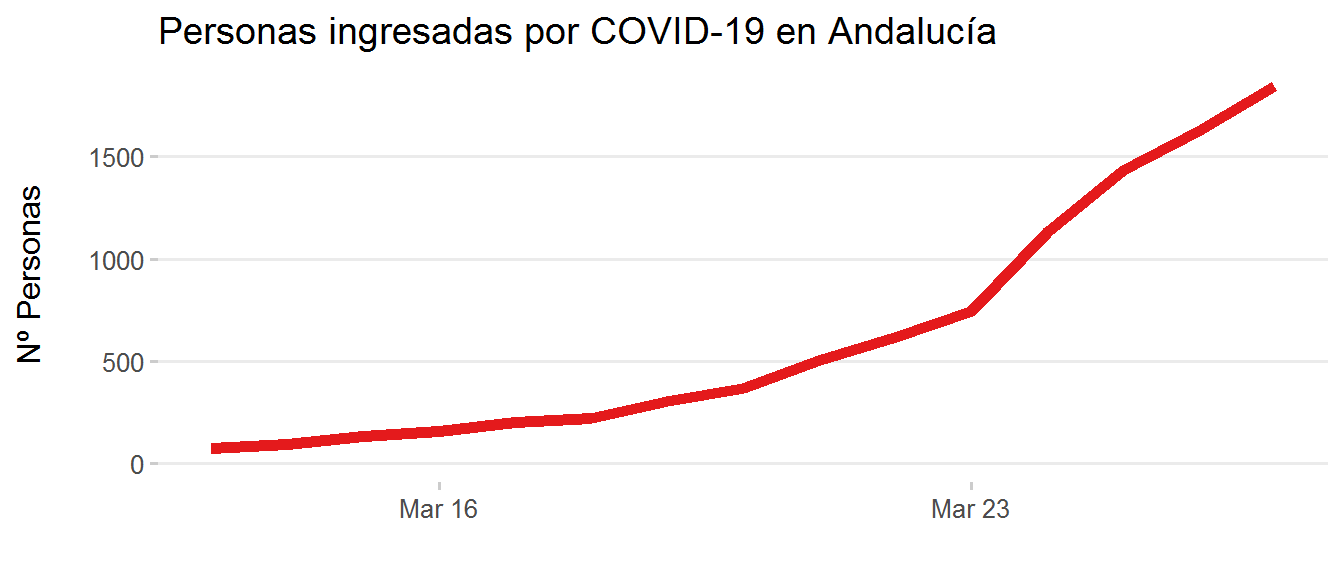
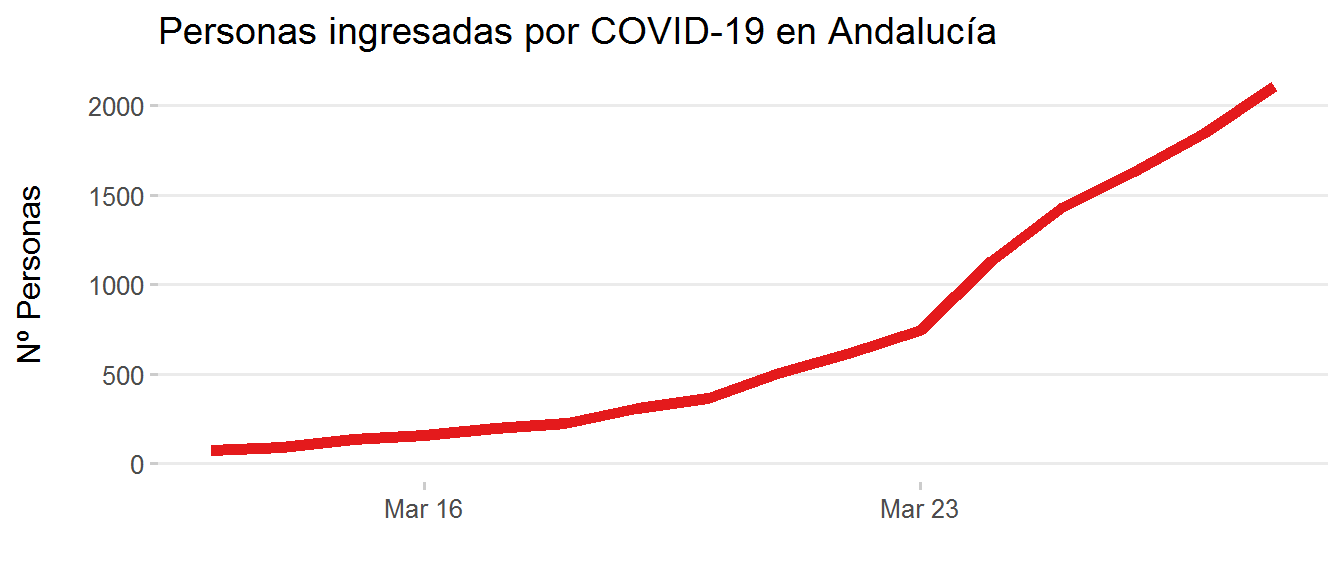
update 28 Marzo

diff --git a/evolucion-coronavirus-andalucia.html b/evolucion-coronavirus-andalucia.html
@@ -192,12 +192,15 @@ summary {
   gtag('config', 'UA-46538450-3');
 </script>
 <p><br></p>
-<p>Aquí se visualiza la evolución de la enfermedad del coronavirus (COVID-19) en Andalucía, según los <a href="https://www.juntadeandalucia.es/organismos/saludyfamilias/areas/salud-vida/paginas/Nuevo_Coronavirus.html">datos oficiales ofrecidos por la Consejería de Salud y Familias</a>. A diferencia de otras visualizaciones más extendidas, que representan datos acumulados en el tiempo, aquí se enfatizan las <strong>variaciones diarias absolutas (no acumuladas)</strong> en número de casos detectados, personas ingresadas y fallecimientos.</p>
+<p>Aquí se visualiza la evolución de la enfermedad del coronavirus (COVID-19) en Andalucía, según los <a href="https://www.juntadeandalucia.es/organismos/saludyfamilias/areas/salud-vida/paginas/Nuevo_Coronavirus.html">datos oficiales ofrecidos por la Consejería de Salud y Familias</a>. A diferencia de otras visualizaciones más extendidas, que representan datos acumulados en el tiempo, aquí se enfatizan las <strong>variaciones diarias absolutas (no acumuladas)</strong> en número de casos detectados, personas en seguimiento activo, ingresadas, dadas de alta y curadas, y número de fallecimientos.</p>
 <p>Los datos se actualizan diariamente. Tanto los datos como el código empleado para generar estas visualizaciones está disponible <a href="https://github.com/Pakillo/COVID19-Andalucia">aquí</a>.</p>
-<p>Última actualización: 2020-03-27</p>
+<p>Última actualización: 2020-03-28</p>
 <ul>
 <li><a href="#casos-detectados">Casos detectados</a></li>
+<li><a href="#personas-en-seguimiento-activo">Personas en seguimiento activo</a></li>
 <li><a href="#personas-ingresadas-en-centros-sanitarios">Personas ingresadas en centros sanitarios</a></li>
+<li><a href="#altas-hospitalarias">Altas hospitalarias</a></li>
+<li><a href="#personas-curadas">Personas curadas</a></li>
 <li><a href="#fallecimientos">Fallecimientos</a></li>
 </ul>
 <p><br></p>
@@ -211,6 +214,16 @@ summary {
 <p><img src="evolucion-coronavirus-andalucia_files/figure-html/casos_provincias-1.png" width="100%" /></p>
 <p><br></p>
 </div>
+<div id="personas-en-seguimiento-activo" class="section level2">
+<h2>Personas en seguimiento activo</h2>
+<p><br></p>
+<p>Número neto de personas en seguimiento activo domiciliario por COVID-19.</p>
+<p><br></p>
+<p><img src="evolucion-coronavirus-andalucia_files/figure-html/seguimiento_Andalucía-1.png" width="100%" /></p>
+<p><br> <br></p>
+<p><img src="evolucion-coronavirus-andalucia_files/figure-html/seguimiento_provincias-1.png" width="100%" /></p>
+<p><br></p>
+</div>
 <div id="personas-ingresadas-en-centros-sanitarios" class="section level2">
 <h2>Personas ingresadas en centros sanitarios</h2>
 <p><br></p>
@@ -219,6 +232,22 @@ summary {
 <p><img src="evolucion-coronavirus-andalucia_files/figure-html/ingresados_Andalucía-1.png" width="100%" /></p>
 <p><br> <br></p>
 <p><img src="evolucion-coronavirus-andalucia_files/figure-html/ingresados_provincias-1.png" width="100%" /></p>
+<p><br></p>
+</div>
+<div id="altas-hospitalarias" class="section level2">
+<h2>Altas hospitalarias</h2>
+<p><br></p>
+<p>Número de personas que han recibido el alta tras estar ingresadas en centros hospitalarios por COVID-19.</p>
+<p><br></p>
+<p><img src="evolucion-coronavirus-andalucia_files/figure-html/altas_Andalucía-1.png" width="100%" /></p>
+<p><br> <br></p>
+<p><br></p>
+</div>
+<div id="personas-curadas" class="section level2">
+<h2>Personas curadas</h2>
+<p><br></p>
+<p><img src="evolucion-coronavirus-andalucia_files/figure-html/curadas_Andalucía-1.png" width="100%" /></p>
+<p><br> <br></p>
 <p><br></p>
 </div>
 <div id="fallecimientos" class="section level2">
